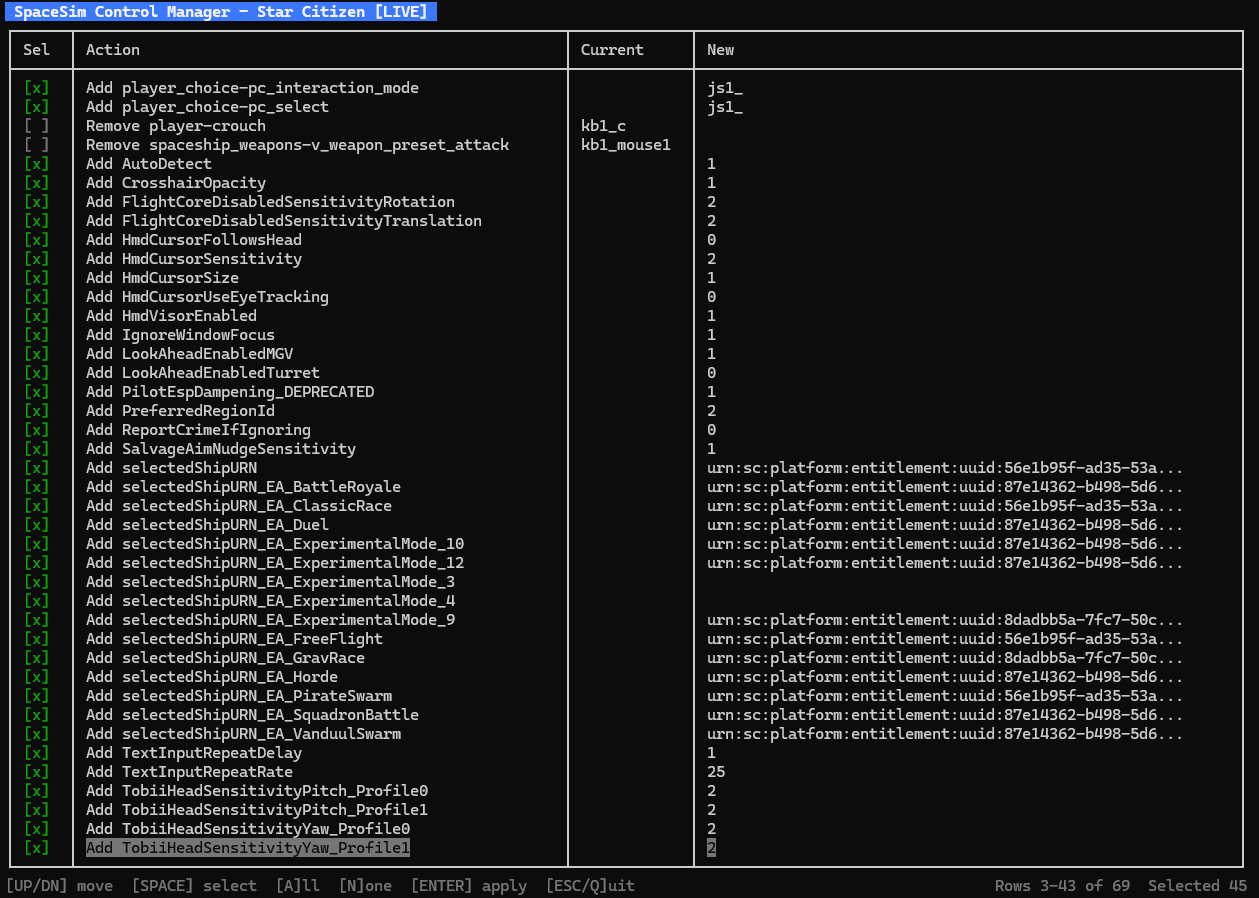
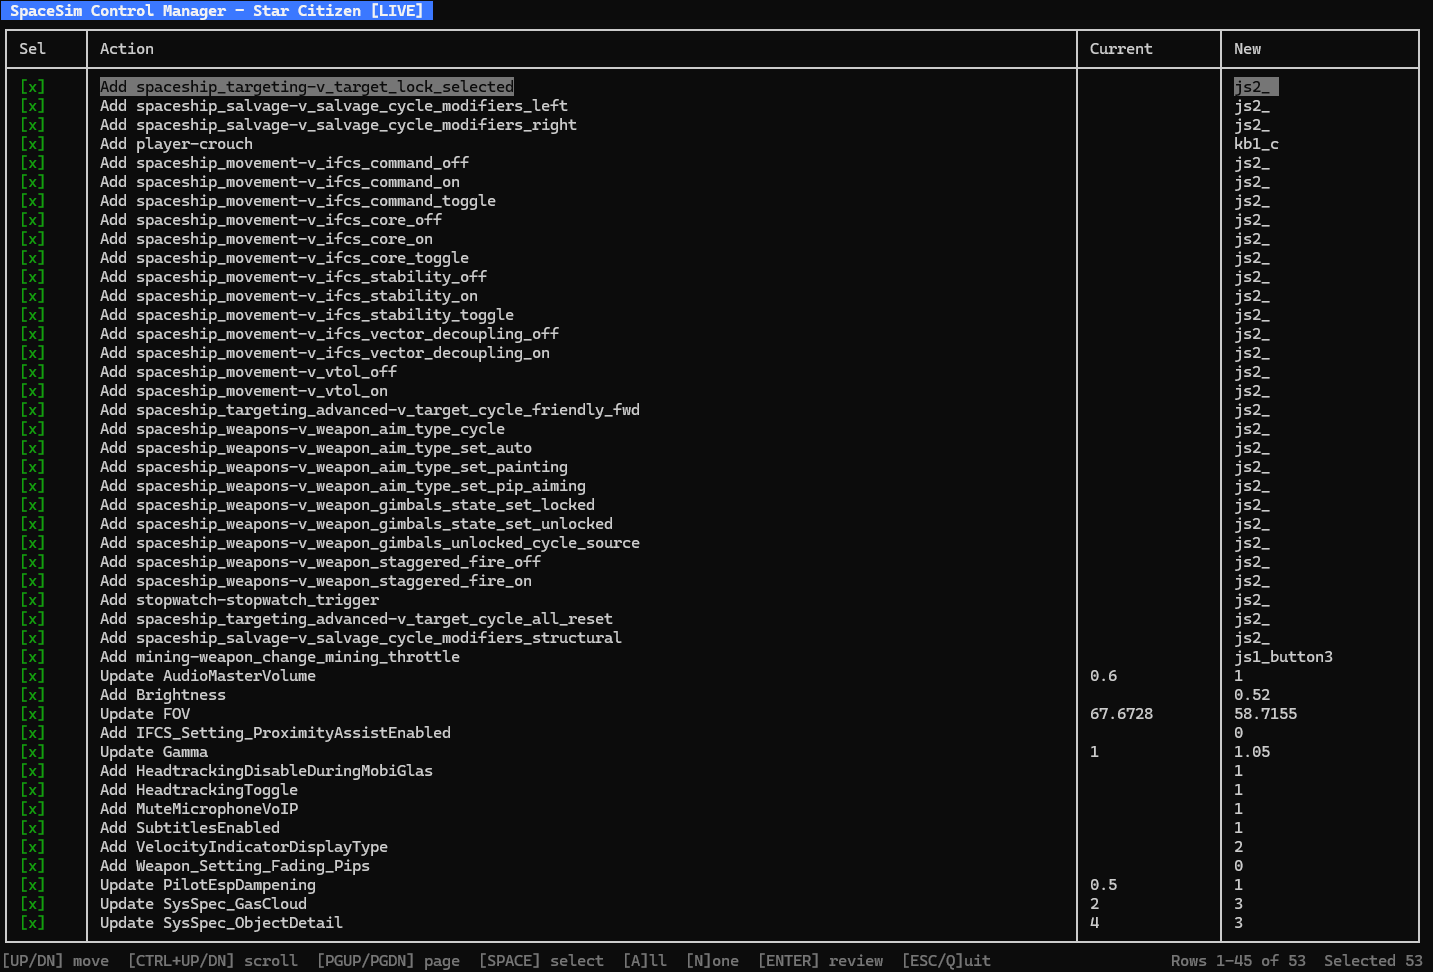
updated readme

Changed region(s): [[0.0, 0.0, 0.9913, 0.9978], [0.4647, 0.1247, 0.5266, 0.1871]]

diff --git a/readme.md b/readme.md
@@ -1,6 +1,6 @@
 # Space Sim Control Manager
 
-Utility to help players retain and migrate their control mappings for space-sim games, especially for new Star Citizen version releases. Elite Dangerous is also supported.
+Utility to help players retain and migrate their control mappings for space-sim games, especially for new Star Citizen version releases. Elite Dangerous is also supported. `print` generates binding docs (markdown, TSV, and an interactive HTML page) from the current game bindings.
 
 ## Standard Usage (Star Citizen)
 
@@ -89,6 +89,8 @@ Creates a plain-text report of the captured mappings (multiple formats available
 
 Prints the current Star Citizen bindings (game defaults plus your `actionmaps.xml` rebinds, with localized names) as markdown, TSV, and an interactive HTML page. Keyboard and mouse rebinds fill the keyboard column; joystick rebinds fill the joystick column. Files are written to `docs\starcitizen\bindings` under the current directory. Use `--outputDir` to write them somewhere else (a relative path is resolved against the current directory).
 
+![Star Citizen bindings HTML page](docs/images/sc-bindings-doc.png)
+
 ```text
 > SSCM.exe sc print --outputDir C:\bindings
 ```
@@ -120,6 +122,8 @@ If the selected Star Citizen environment isn't installed (for example `--environ
 ### Elite Dangerous print
 
 Prints the current Elite Dangerous bindings from the highest `Custom.{major}.{minor}.binds` file in the game bindings folder (for example `Custom.4.2.binds` over `Custom.4.0.binds` and `Custom.3.0.binds`) as markdown, TSV, and an interactive HTML page. Primary, Secondary, and axis Binding slots are folded into the same `keyboard` / `joystick` / `joystickDesc` columns Star Citizen uses. Keyboard and mouse go in `keyboard`; other devices go in `joystick`. Two different devices in the same column are joined with `; `; if Primary and Secondary share a device, Primary wins. Files are written to `docs\elitedangerous\bindings` under the current directory. Use `--outputDir` to write them somewhere else.
+
+![Elite Dangerous bindings HTML page](docs/images/ed-bindings-doc.png)
 
 ```text
 > SSCM.exe ed print
